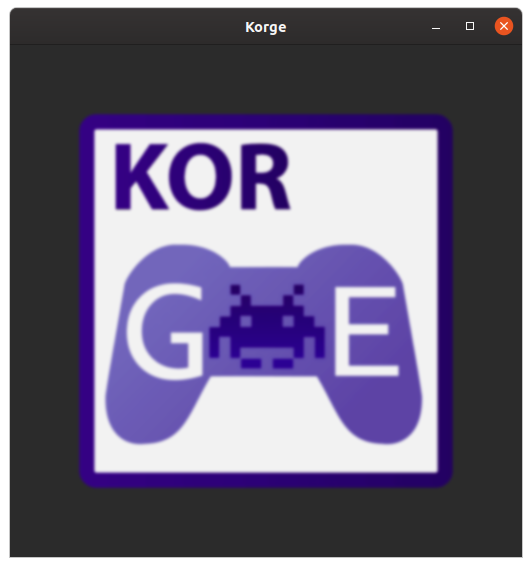
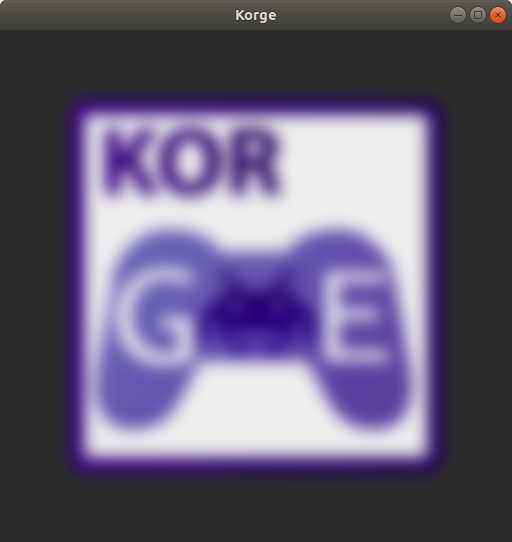
Some adjustments

diff --git a/korge/filters/index.md b/korge/filters/index.md
@@ -94,10 +94,10 @@ class Convolute3Filter(var kernel: Matrix3D) : Filter() {
 ```
 
 ```kotlin
-view.filter = ComposedFilter((0 until 5).map { Convolute3Filter(Convolute3Filter.KERNEL_GAUSSIAN_BLUR) })
+view.filter = Convolute3Filter(Convolute3Filter.KERNEL_EDGE_DETECTION)
 ```
 
-![](/i/filters/blur.png)
+![](/i/filters/edge_detection.png)
 
 ## BlurFilter
 
@@ -110,7 +110,7 @@ class BlurFilter(initialRadius: Double = 1.0) : Filter {
 }
 ```
 ```kotlin
-view.filter = BlurFilter(16.0)
+view.filter = BlurFilter(8.0)
 ```
 
 ![](/i/filters/blur.png)
@@ -161,7 +161,7 @@ class SwizzleColorsFilter(var swizzle: String = "rgba") : Filter()
 ```
 
 ```kotlin
-view.filter = SwizzleColorsFilter.ProxySwizzle("bgra")
+view.filter = SwizzleColorsFilter("bgra")
 ```
 
 ![](/i/filters/swizzle_color.png)
